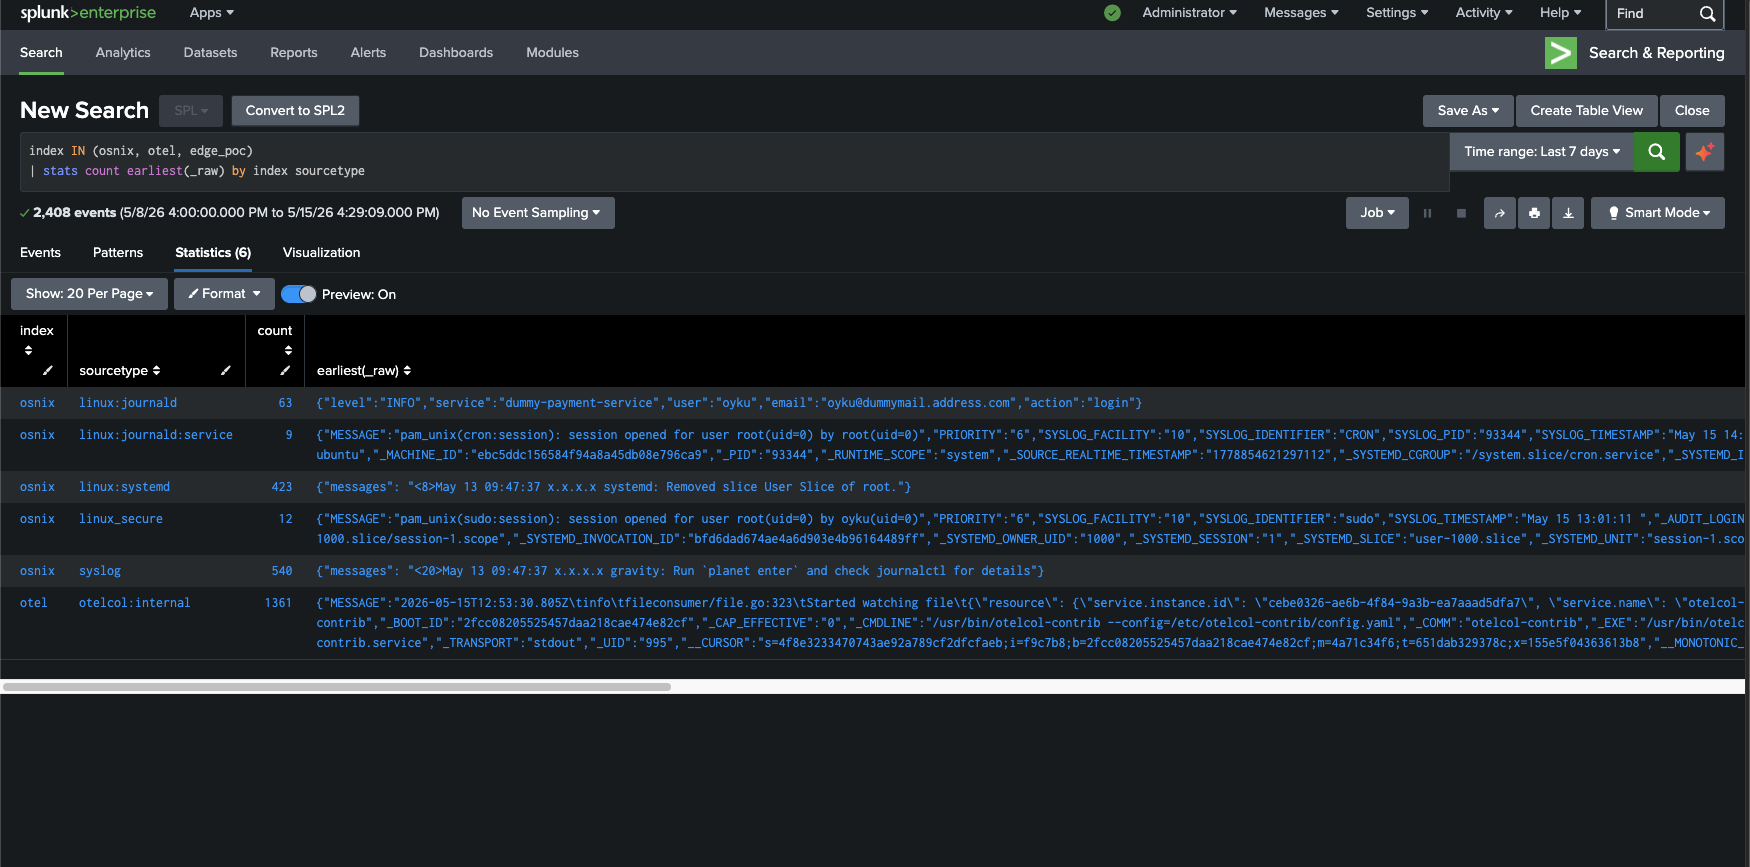
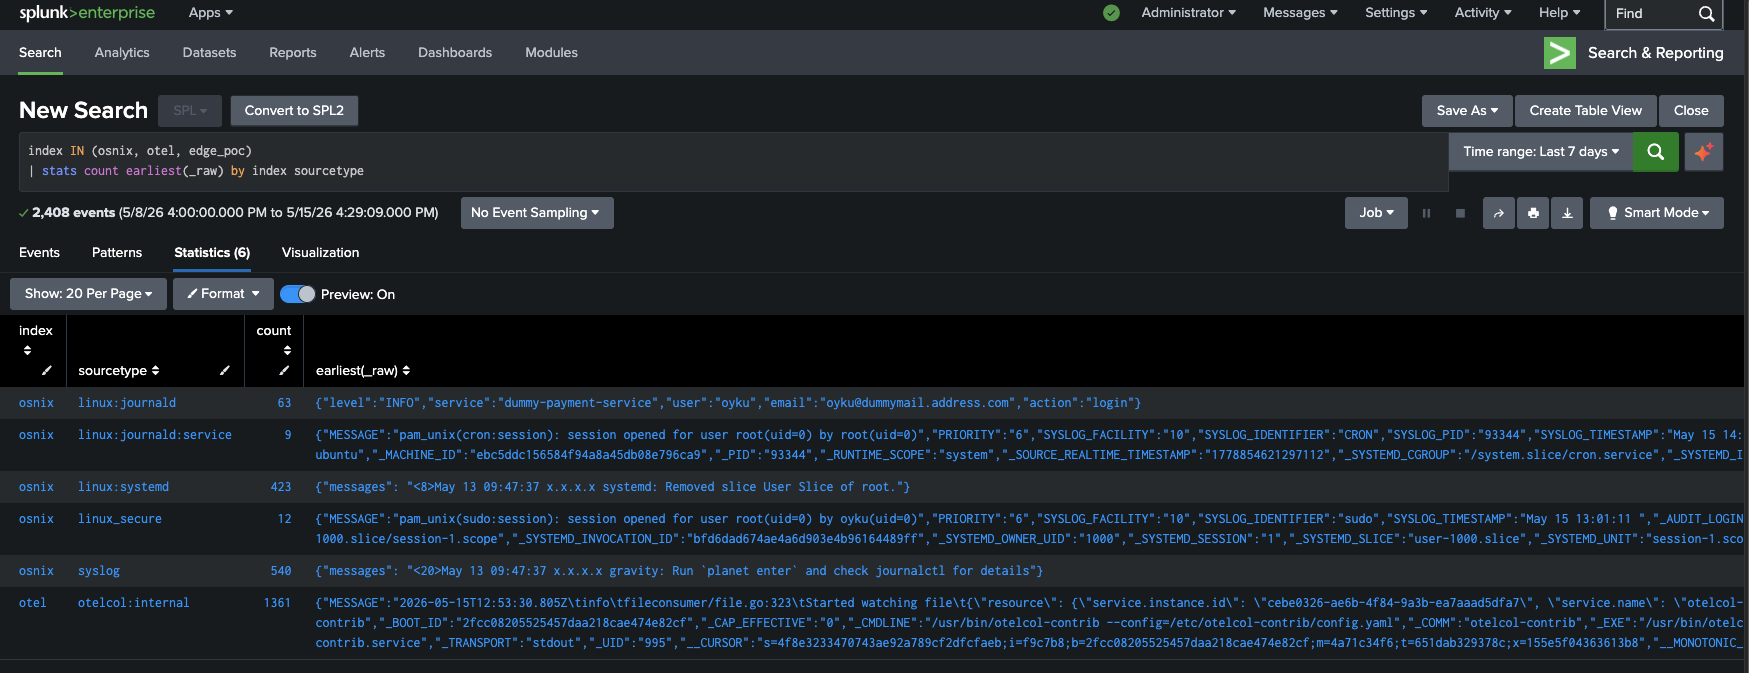
update to "Routing and Masking Linux Logs with Splunk Edge and OpenTelemetry"

diff --git a/_posts/2026-05-15-otel-splunk-edge-poc.md b/_posts/2026-05-15-otel-splunk-edge-poc.md
@@ -160,12 +160,12 @@ Usually:
 
 But since we also had Splunk Edge Processor that required its own ingestion components, it was decided to reconfigure environment in the following way:
 
-| Component                       | Port    |
-| --------------------------------| ------- |
-| Splunk Edge Processor           | 9997    |
-| Splunk Enterprise S2S Input     | 9998    |
-| Splunk Edge Processor HEC       | 8088    |
-| Splunk Management Port          | 8089    |
+| Component                       |   | Port    |
+| --------------------------------| - | ------- |
+| Splunk Edge Processor           |   | 9997    |
+| Splunk Enterprise S2S Input     |   | 9998    |
+| Splunk Edge Processor HEC       |   | 8088    |
+| Splunk Management Port          |   | 8089    |
 
 ---
 
@@ -420,7 +420,7 @@ Some useful metrics include:
 - Instance Status
 - Queues
 
-Performing the whole POC using one VM running Ubuntu Linux was really convenient to develop. Have fun exploring Splunk!
+Performing the whole POC using one VM running Ubuntu Linux was really convenient to develop. 
 
 ---
 
@@ -495,14 +495,16 @@ The same SPL2 pipeline masks IP addresses before indexing them into Splunk at th
 
 Here are a few common event patterns we support:
 
-| Pattern Type                      | Sourcetype      | Index   |
-| --------------------------------- | --------------- | ------- |
-| Authentication events             | linux_secure    | osnix   |
-| Kernel events                     | linux:kernel    | osnix   |
-| Systemd events                    | linux:systemd   | osnix   |
-| Generic syslog events             | syslog          | osnix   |
-| OTEL Collector internal events    | otelcol:internal| osnix   |
-| Journald fallback events          | linux:journald  | osnix   |
+
+| Pattern Type                      |   | Sourcetype      | Index   |
+| --------------------------------- | - | --------------- | ------- |
+| Authentication events             |   | linux_secure    | osnix   |
+| Kernel events                     |   | linux:kernel    | osnix   |
+| Systemd events                    |   | linux:systemd   | osnix   |
+| Generic syslog events             |   | syslog          | osnix   |
+| OTEL Collector internal events    |   | otelcol:internal| osnix   |
+| Journald fallback events          |   | linux:journald  | osnix   |
+
 
 It was notable how certain regex operations were too aggressive, leading to certain journald events not being sent to downstream processing altogether. The workaround for this problem was to conditionally wrap these actions in `if(match())`, which would perform them only if the corresponding IP addresses were found in the event.
 
@@ -541,7 +543,6 @@ which were routed into indexes such as:
 
 * osnix
 * otel
-* edge_poc
 
 The best part of what we achieved was the IP masking performed on the edge layer itself, which prevented any sensitive infrastructure information from reaching the indexing tier in the unmasked form.
 
@@ -557,7 +558,7 @@ Such a solution provides a good example of the powerful capabilities of OpenTele
 
 ### 6.1. Important Note
 
-One thing worth noting about this POC is that there were some Linux events that did not fully comply with expectations created by default settings of the Splunk app, [`Splunk_TA_nix`] (https://splunkbase.splunk.com/app/833).
+One thing worth noting about this POC is that there were some Linux events that did not fully comply with expectations created by default settings of the Splunk app, [`Splunk_TA_nix`](https://splunkbase.splunk.com/app/833).
 
 The fact that many telemetry logs were in JSON made some events parsing fail since they did not comply with expectations related to field extraction and sourcetypes set up by the add-on.
 
@@ -595,7 +596,7 @@ Well done! 🎉
 
 Thanks to this project, we now have a very flexible Linux telemetry pipeline that collects, routes, masks, and preprocesses log data before indexing them in Splunk.
 
-💬 I would be more than happy to see your comments, feedbacks, suggestions, or even questions! Feel free to contact me on LinkedIn! 🧚🏽♀️
+💬 I would be more than happy to see your comments, feedbacks, suggestions, or even questions! Feel free to contact me on [LinkedIn](https://www.linkedin.com/in/%C3%B6yk%C3%BC-can/)! 🧚🏽♀️
 
 Until next time! 👋
 